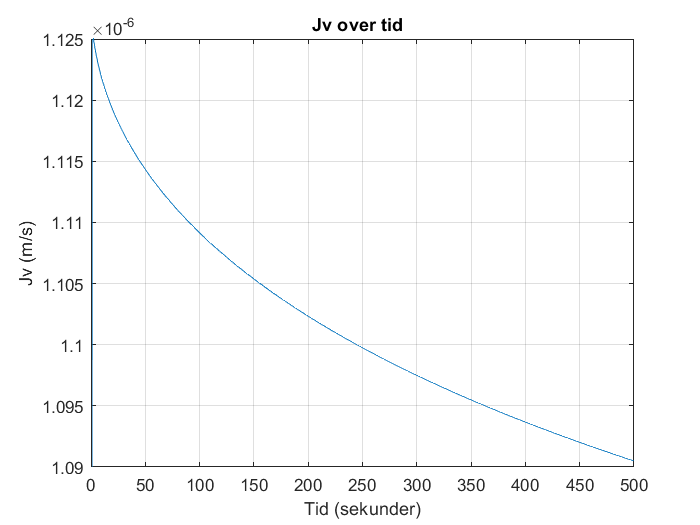
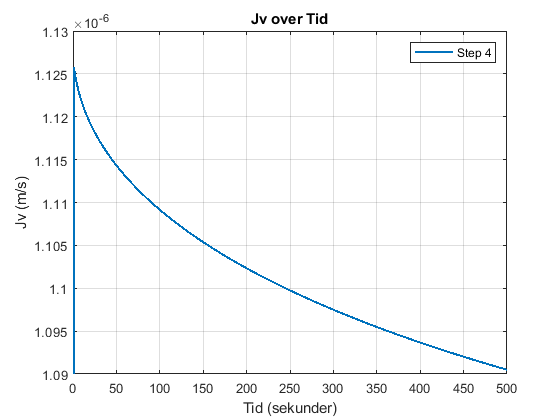
more graphs

diff --git a/step4.m b/step4.m
@@ -86,7 +86,7 @@ for j = 2:time_steps
         end
         % Apply the diffusion-advection-(electromigration) equation
         C(i, j) = C(i, j-1) + dt * (d2Cdx2 + dCdt_advection);
-        Jv_values(j) = Jv; % Plot values
+        Jv_values4(j) = Jv; % Plot values
         P_values(j) = Ptot;
         AS(j) = Jv * dt/dx; % Stability plot values
     end
@@ -95,8 +95,8 @@ end
 
 Systemdiff = [0, diff(sum(C,1))]; % Diffrence in systemsums
 
-inflow = Jv_values*feed_conc*(dt/dx); % Inflow array
-outflow = C(domain_steps, :).* Jv_values*(1-sig_m)*(dt/dx); % Outflow array 
+inflow = Jv_values4*feed_conc*(dt/dx); % Inflow array
+outflow = C(domain_steps, :).* Jv_values4*(1-sig_m)*(dt/dx); % Outflow array 
 
 ERROR = Systemdiff - inflow + outflow; % The mass conservation error
 
@@ -135,7 +135,7 @@ grid on;
 
 % Plot Jv values over time
 figure;
-plot(t, Jv_values);
+plot(t, Jv_values4);
 xlabel('Time (seconds)');
 ylabel('Jv (Velocity)');
 title('Jv (Velocity) Over Time');
@@ -190,4 +190,8 @@ zlim([0, 1.5]); % Assuming max(C(:)) is the maximum concentration in your data
 set(h,'LineStyle','none')
 colormap(jet)
 clim([0.1 0.12])
+
+%%
+save('step4jv', 'Jv_values4')
+
 

diff --git a/step2.m b/step2.m
@@ -87,7 +87,7 @@ for j = 2:time_steps
         end
         % Apply the diffusion-advection-(electromigration) equation
         C(i, j) = C(i, j-1) + dt * (d2Cdx2 + dCdt_advection);
-        Jv_values(j) = Jv; % Plot values
+        Jv_values2(j) = Jv; % Plot values
         P_values(j) = Ptot;
         AS(j) = Jv * dt/dx; % Stability plot values
     end
@@ -96,8 +96,8 @@ end
 
 Systemdiff = [0, diff(sum(C,1))]; % Diffrence in systemsums
 
-inflow = Jv_values*feed_conc*(dt/dx); % Inflow array
-outflow = C(domain_steps, :).* Jv_values*(1-sig_m)*(dt/dx); % Outflow array 
+inflow = Jv_values2*feed_conc*(dt/dx); % Inflow array
+outflow = C(domain_steps, :).* Jv_values2*(1-sig_m)*(dt/dx); % Outflow array 
 
 ERROR = Systemdiff - inflow + outflow; % The mass conservation error
 
@@ -135,7 +135,7 @@ grid on;
 
 % Plot Jv values over time
 figure;
-plot(t, Jv_values);
+plot(t, Jv_values2);
 xlabel('Time (seconds)');
 ylabel('Jv (Velocity)');
 title('Jv (Velocity) Over Time');
@@ -188,6 +188,9 @@ zlim([0, 1.5]); % Assuming max(C(:)) is the maximum concentration in your data
 set(h,'LineStyle','none')
 colormap(jet)
 clim([0 1.5])
+
+%%
+save('step2jv', 'Jv_values2')
 
 
 

diff --git a/step3.m b/step3.m
@@ -87,7 +87,7 @@ for j = 2:time_steps
         end
         % Apply the diffusion-advection-(electromigration) equation
         C(i, j) = C(i, j-1) + dt * (d2Cdx2 + dCdt_advection);
-        Jv_values(j) = Jv; % Plot values
+        Jv_values3(j) = Jv; % Plot values
         P_values(j) = Ptot;
         AS(j) = Jv * dt/dx; % Stability plot values
     end
@@ -96,8 +96,8 @@ end
 
 Systemdiff = [0, diff(sum(C,1))]; % Diffrence in systemsums
 
-inflow = Jv_values*feed_conc*(dt/dx); % Inflow array
-outflow = C(domain_steps, :).* Jv_values*(1-sig_m)*(dt/dx); % Outflow array 
+inflow = Jv_values3*feed_conc*(dt/dx); % Inflow array
+outflow = C(domain_steps, :).* Jv_values3*(1-sig_m)*(dt/dx); % Outflow array 
 
 ERROR = Systemdiff - inflow + outflow; % The mass conservation error
 
@@ -135,7 +135,7 @@ grid on;
 
 % Plot Jv values over time
 figure;
-plot(t, Jv_values);
+plot(t, Jv_values3);
 xlabel('Time (seconds)');
 ylabel('Jv (Velocity)');
 title('Jv (Velocity) Over Time');
@@ -192,6 +192,8 @@ set(h,'LineStyle','none')
 colormap(jet)
 clim([0.1 0.12])
 
+%%
+save('step3jv', 'Jv_values3')
 
 
 

diff --git a/step1.m b/step1.m
@@ -86,7 +86,7 @@ for j = 2:time_steps
         end
         % Apply the diffusion-advection-(electromigration) equation
         C(i, j) = C(i, j-1) + dt * (d2Cdx2 + dCdt_advection);
-        Jv_values(j) = Jv; % Plot values
+        Jv_values1(j) = Jv; % Plot values
         P_values(j) = Ptot;
         AS(j) = Jv * dt/dx; % Stability plot values
     end
@@ -95,8 +95,8 @@ end
 
 Systemdiff = [0, diff(sum(C,1))]; % Diffrence in systemsums
 
-inflow = Jv_values*feed_conc*(dt/dx); % Inflow array
-outflow = C(domain_steps, :).* Jv_values*(1-sig_m)*(dt/dx); % Outflow array 
+inflow = Jv_values1*feed_conc*(dt/dx); % Inflow array
+outflow = C(domain_steps, :).* Jv_values1*(1-sig_m)*(dt/dx); % Outflow array 
 
 ERROR = Systemdiff - inflow + outflow; % The mass conservation error
 
@@ -134,7 +134,7 @@ grid on;
 
 % Plot Jv values over time
 figure;
-plot(t, Jv_values);
+plot(t, Jv_values1);
 xlabel('Time (seconds)');
 ylabel('Jv (Velocity)');
 title('Jv (Velocity) Over Time');
@@ -188,6 +188,8 @@ set(h,'LineStyle','none')
 colormap(jet)
 clim([0 1.5])
 
+%%
+save('step1jv', 'Jv_values1')
 
 
 

diff --git a/Jv_Graphs.m b/Jv_Graphs.m
@@ -1,0 +1,50 @@
+%__Gruppe 3-Simulering-3.Sem__
+clear
+close all
+clc
+%%
+
+x = linspace(0, 500, 500);
+
+load('step1jv.mat', 'Jv_values1');
+load('step2jv.mat', 'Jv_values2');
+load('step3jv.mat', 'Jv_values3');
+load('step4jv.mat', 'Jv_values4');
+
+%%
+
+% Create a figure for the first plot
+figure;
+hold on;
+
+plot(x, Jv_values1, 'LineWidth', 1.5);
+plot(x, Jv_values2, 'LineWidth', 1.5);
+plot(x, Jv_values3, 'LineWidth', 1.5);
+plot(x, Jv_values4, 'LineWidth', 1.5);
+
+xlabel('Time (seconds)');
+ylabel('Jv (Velocity)');
+title('Jv (Velocity) Over Time');
+grid on;
+
+legend('Step 1', 'Step 2', 'Step 3', 'Step 4');
+
+%%new graph
+figure;
+plot(x, Jv_values3, 'LineWidth', 1.5);
+xlabel('Time (seconds)');
+ylabel('Jv (Velocity)');
+title('Jv (Velocity) Over Time 3');
+grid on;
+ylim([18.24*10^-6, 18.64*10^-6])
+legend('Step 3');
+
+figure;
+plot(x, Jv_values4, 'LineWidth', 1.5);
+xlabel('Time (seconds)');
+ylabel('Jv (Velocity)');
+title('Jv (Velocity) Over Time 4');
+grid on;
+ylim([1.09*10^-6, 1.13*10^-6])
+legend('Step 4');
+

diff --git a/numerical.m b/numerical.m
@@ -64,7 +64,7 @@ for j = 2:time_steps
         if j == 2
             Ptot = Mp(feed_conc); % The rate of percipitation WI
         else
-            Ptot = Mp(i,j-1) + (Mp(LastC) - Mp(feed_conc))*Jv*(dt/dx)*PC; %%% CHECK CODE!!!!!!
+            Ptot = Mp(LastC) + (Mp(LastC) - Mp(feed_conc))*Jv*(dt/dx)*PC; %%% CHECK CODE!!!!!!
         end
 
         Jv = (Lv(LastC)*(TMP-(1*R*T*(LastC))));  % Volume flux = Jv ,  in terms of osmotic pressure (TMP, R, T, delta_C) and Lv. [m/s]
